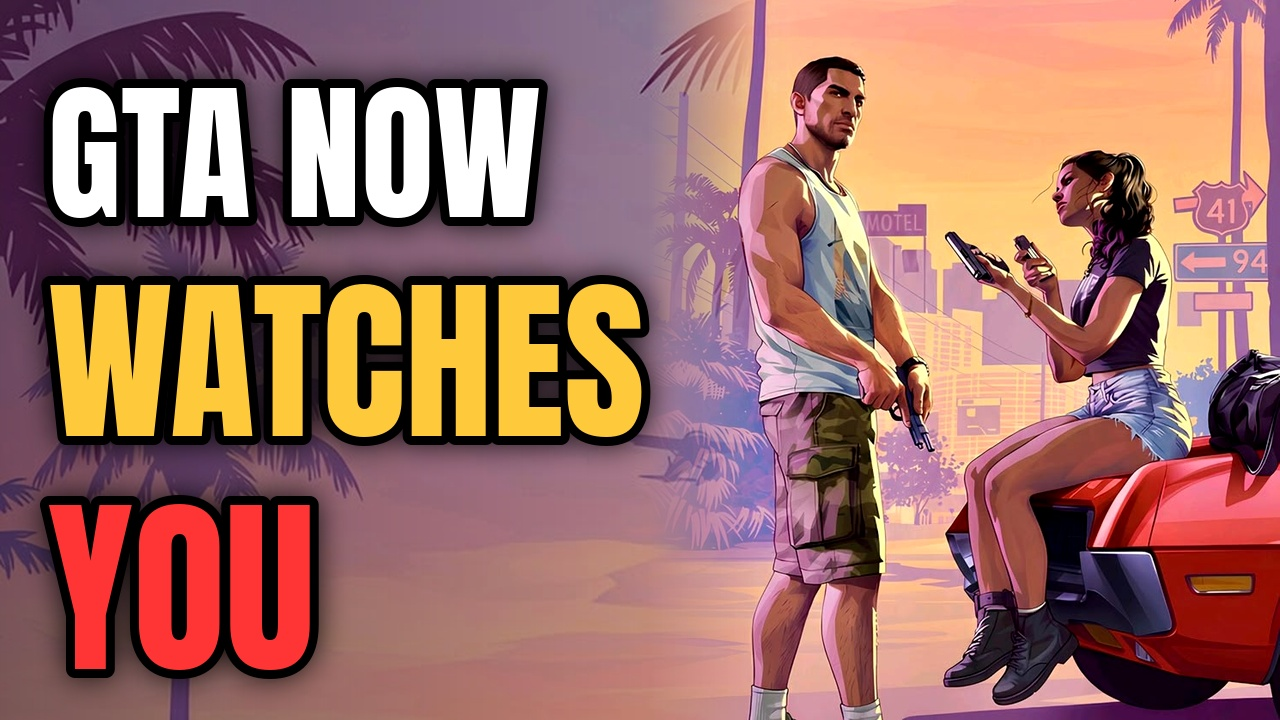
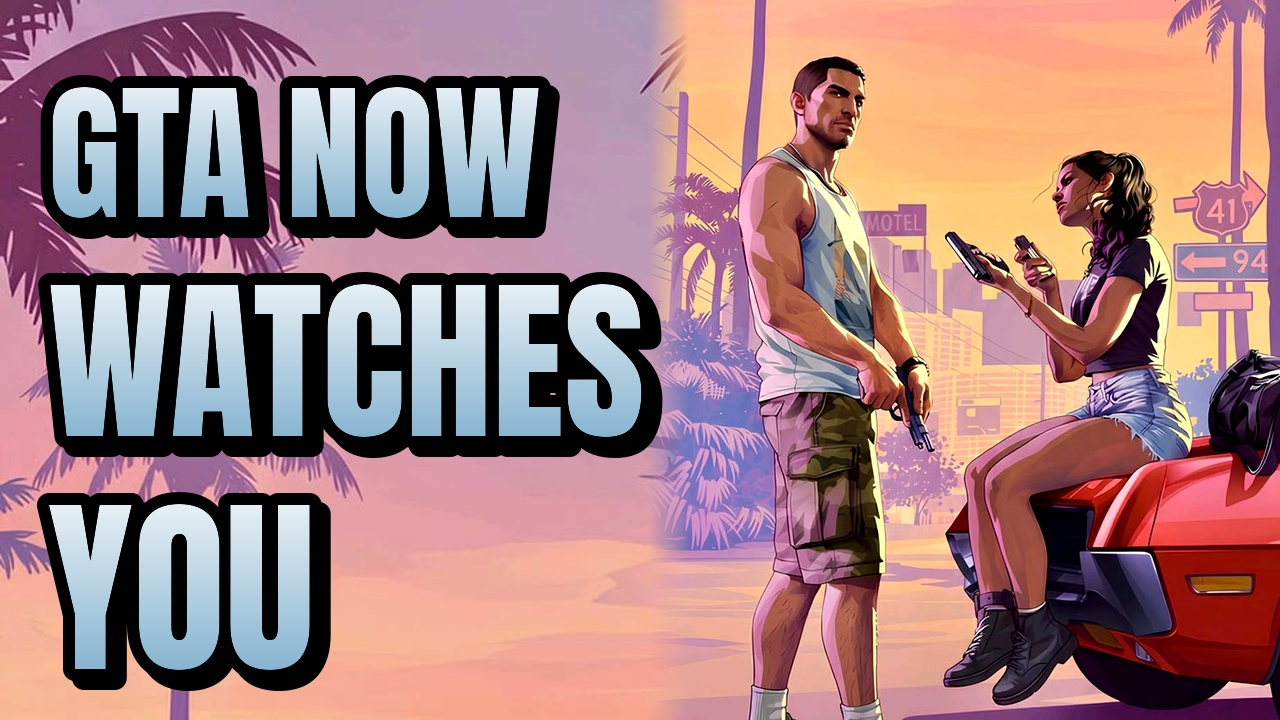
014 thumbnail v2: no blur at all, GTA-style text in Jason's shirt colour
Claude-Session: https://claude.ai/code/session_01DX4dbwA3bNBQnMT2RJeEkt

diff --git a/production/make_thumb014b.py b/production/make_thumb014b.py
@@ -1,4 +1,4 @@
-"""Thumbnail for 014 'GTA 6 vs GTA 5' (v2): user's Jason & Lucia motel art on the right, text 'GTA NOW / WATCHES / YOU' left.
+"""Thumbnail for 014 'GTA 6 vs GTA 5' (v2): user's Jason & Lucia motel art on the right, text 'GTA NOW / WATCHES / YOU' left in GTA style (shirt-colour fill), no blur.
 Usage: make_thumb014b.py out [--hd]   (default 1280x720; --hd = 1920x1080)"""
 import sys
 from PIL import Image, ImageDraw, ImageFont, ImageFilter, ImageEnhance
@@ -9,28 +9,33 @@ src = Image.open("remotion-overlays/public/frames/user-jason-lucia-motel-art.jpg
 sky = src.crop((0, 0, src.width, 520)); kk = H / sky.height
 sky = sky.resize((int(sky.width * kk), H), Image.LANCZOS)          # sharp palms + sky, no blur
 bg = Image.new("RGB", (W, H)); bg.paste(sky, (0, 0))
-bg = ImageEnhance.Brightness(bg).enhance(0.85).convert("RGBA")
+bg = bg.convert("RGBA")
 # characters: heads to boots, full thumbnail height on the right
 crop = src.crop((0, 470, src.width, src.height))
 k = H / crop.height; ch = crop.resize((int(crop.width * k), H), Image.LANCZOS)
 ch = ImageEnhance.Contrast(ch).enhance(1.08); ch = ImageEnhance.Color(ch).enhance(1.1).convert("RGBA")
 x0 = W - ch.width
-m = Image.new("L", ch.size, 255); md = ImageDraw.Draw(m); fade = s(110)
+m = Image.new("L", ch.size, 255); md = ImageDraw.Draw(m); fade = s(40)
 for x in range(fade): md.line((x, 0, x, ch.height), fill=int(255 * x / fade))
 ch.putalpha(m); bg.alpha_composite(ch, (x0, 0)); im = bg
-# darken the text side a little more
-g = Image.new("L", (W, 1))
-for x in range(W): g.putpixel((x, 0), int(max(0, 1 - x / (W * 0.62)) * 120))
-sh = Image.new("RGBA", (W, H), (20, 6, 40, 255)); sh.putalpha(g.resize((W, H))); im = Image.alpha_composite(im, sh)
+# GTA-style text: shirt-colour gradient fill (Jason's pale-blue tank top), thick black outline, hard drop shadow; no blur anywhere
 F = "remotion-overlays/public/fonts/Anton-Regular.ttf"
-txt = Image.new("RGBA", (W, H), (0, 0, 0, 0)); d = ImageDraw.Draw(txt)
-def line(t, size, y, fill, maxw):
-    f = ImageFont.truetype(F, s(size))
-    while d.textlength(t, font=f) > maxw: size -= 4; f = ImageFont.truetype(F, s(size))
-    d.text((s(48), s(y)), t, font=f, fill=fill, stroke_width=s(9), stroke_fill=(0, 0, 0))
-line("GTA NOW", 150, 40, (255, 255, 255), s(600))
-line("WATCHES", 175, 230, (255, 201, 60), s(600))
-line("YOU", 190, 445, (255, 52, 52), s(600))
-glow = txt.filter(ImageFilter.GaussianBlur(s(14))); dk = Image.new("RGBA", (W, H), (0, 0, 0, 0)); dk.putalpha(glow.split()[3].point(lambda v: int(v * .85)))
-im = Image.alpha_composite(im, dk); im = Image.alpha_composite(im, txt)
+TOP, BOT = (238, 244, 248), (128, 176, 206)      # tank top: near-white at the top, washed blue lower down
+def gta_line(img, t, size, y, maxw):
+    probe = ImageDraw.Draw(img); f = ImageFont.truetype(F, s(size))
+    while probe.textlength(t, font=f) > maxw: size -= 4; f = ImageFont.truetype(F, s(size))
+    x = s(48); bbox = probe.textbbox((x, s(y)), t, font=f, stroke_width=s(12))
+    sh = Image.new("RGBA", img.size, (0, 0, 0, 0)); ImageDraw.Draw(sh).text((x + s(9), s(y) + s(9)), t, font=f, fill=(0, 0, 0, 255), stroke_width=s(12), stroke_fill=(0, 0, 0, 255))
+    img = Image.alpha_composite(img, sh)                                   # hard shadow
+    ol = Image.new("RGBA", img.size, (0, 0, 0, 0)); ImageDraw.Draw(ol).text((x, s(y)), t, font=f, fill=(0, 0, 0, 255), stroke_width=s(12), stroke_fill=(0, 0, 0, 255))
+    img = Image.alpha_composite(img, ol)                                   # black outline
+    mask = Image.new("L", img.size, 0); ImageDraw.Draw(mask).text((x, s(y)), t, font=f, fill=255)
+    grad = Image.new("RGBA", img.size); gd = ImageDraw.Draw(grad); y0, y1 = bbox[1], bbox[3]
+    for yy in range(y0, y1 + 1):
+        r = (yy - y0) / max(1, y1 - y0); gd.line((0, yy, img.width, yy), fill=tuple(int(TOP[i] + (BOT[i] - TOP[i]) * r) for i in range(3)) + (255,))
+    fill = Image.new("RGBA", img.size, (0, 0, 0, 0)); fill.paste(grad, (0, 0), mask)
+    return Image.alpha_composite(img, fill)
+im = gta_line(im, "GTA NOW", 150, 40, s(600))
+im = gta_line(im, "WATCHES", 175, 230, s(600))
+im = gta_line(im, "YOU", 190, 445, s(600))
 im.convert("RGB").save(out, quality=95); print(out, im.size)
